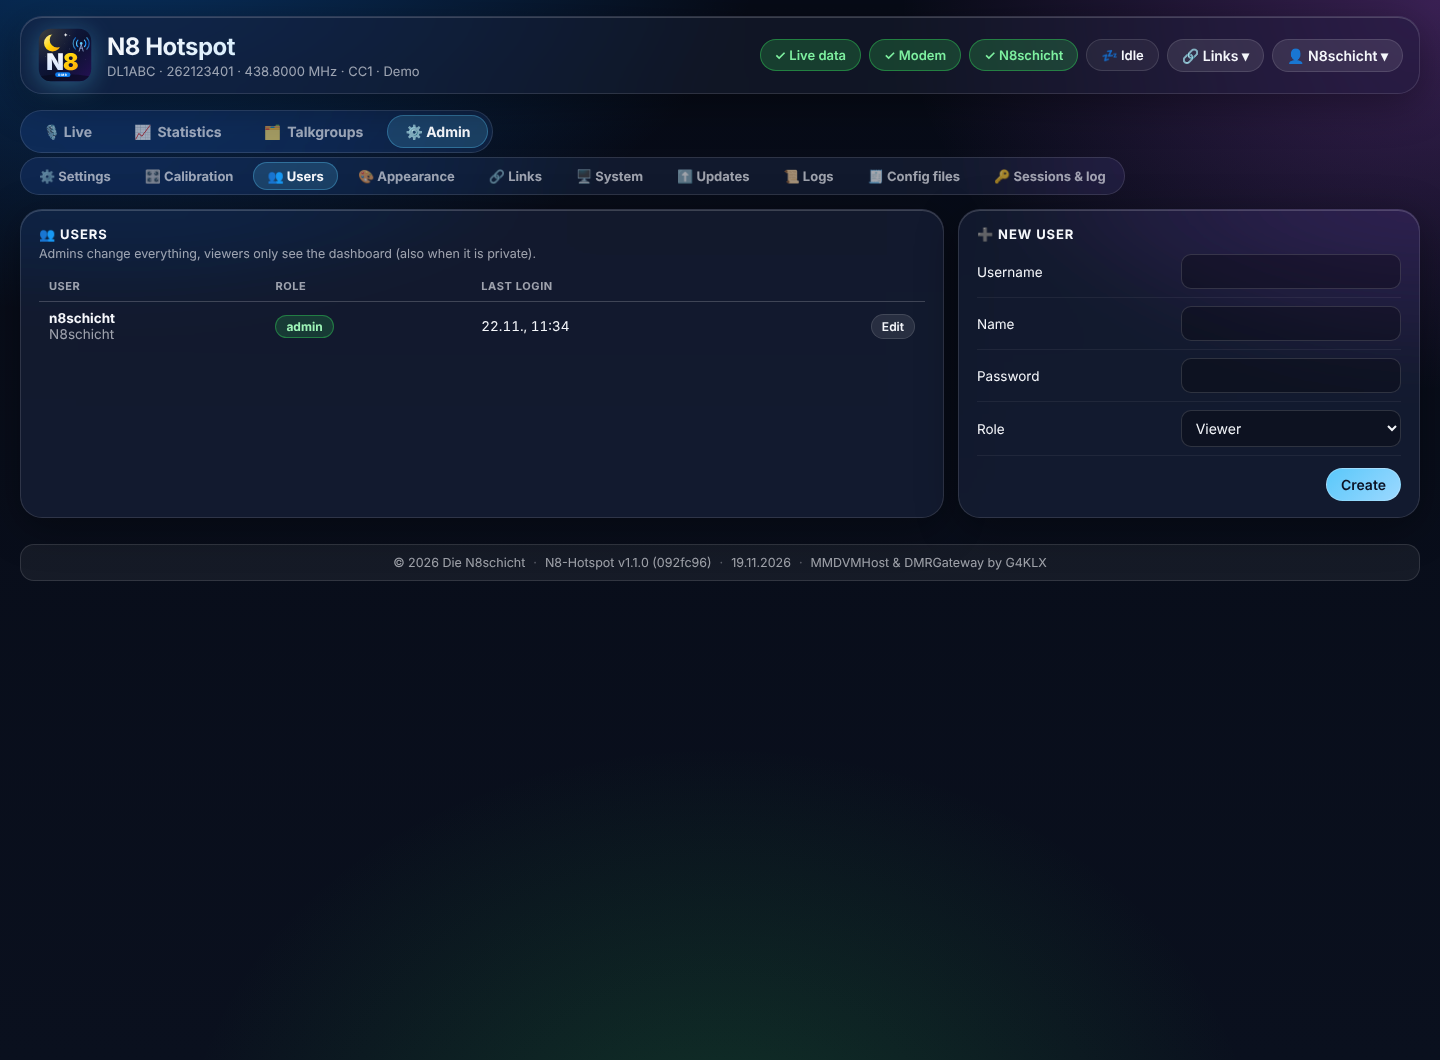
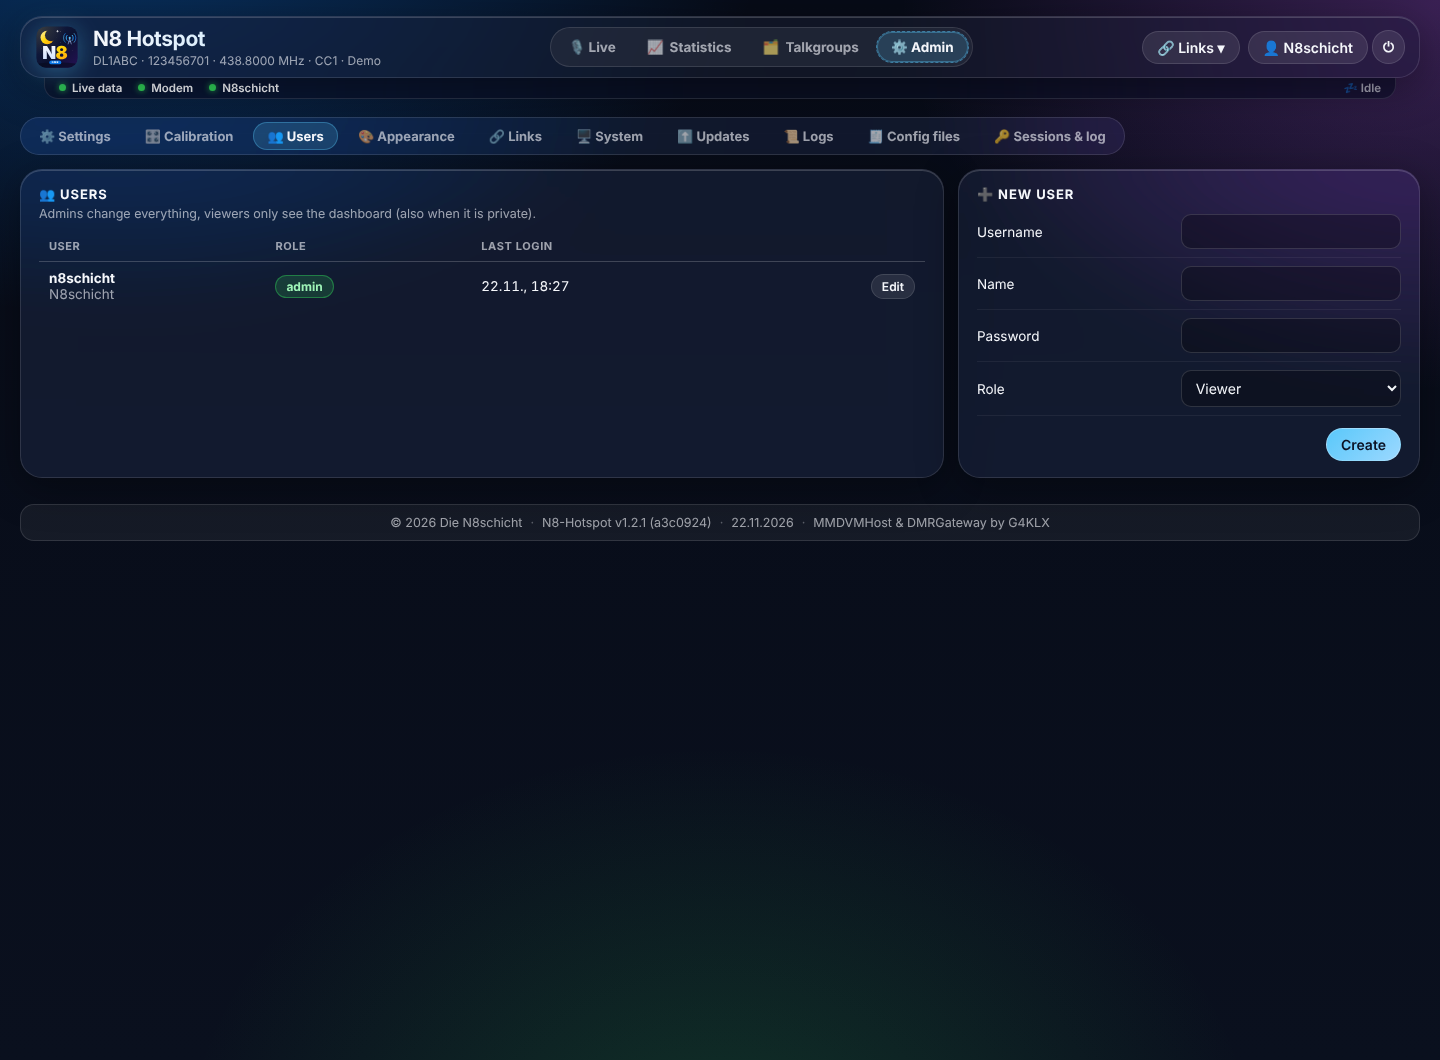
v1.3.0: one menu in the header + slim status strip
- Tabs (Live, Statistics, Talkgroups) moved into the sticky header
- ⚙ Admin becomes a menu item after login (no user drop-down)
- Login on the far right; logged in: name (My account) + ⏻ log out
- New 22 px status strip under the menu: Live data, Modem, DMR server, mode
- Shared static/n8-header.css (same as frn_adn)
- Docs: new section "Kopfzeile und Statusleiste", all header screenshots renewed

Claude-Session: https://claude.ai/code/session_01J5RG2onGtWffnXNHvutXxa

diff --git a/static/app.js b/static/app.js
@@ -84,21 +84,10 @@ function renderHeader() {
 function renderUser() {
     const el = $('userArea');
     if (!S.me) { el.innerHTML = '<button class="btn primary" onclick="openLogin()">🔐 Login</button>'; return; }
-    el.innerHTML = `<button class="btn" onclick="userMenu(event)" title="${esc(S.me.display_name || S.me.username)}">👤 <span class="u-name">${esc(S.me.display_name || S.me.username)}</span> ▾</button>`;
-}
-function userMenu(ev) {
-    ev.stopPropagation();
-    closeModal();
-    const r = ev.target.getBoundingClientRect();
-    const m = document.createElement('div');
-    m.className = 'glass'; m.id = 'umenu';
-    m.style.cssText = `position:fixed;top:${r.bottom + 8}px;right:${Math.max(8, innerWidth - r.right)}px;z-index:300;border-radius:16px;padding:6px;min-width:200px;background:var(--surface-2, rgba(22,28,48,.95))`;
-    m.innerHTML = `<div style="padding:8px 12px" class="dim">${esc(S.me.username)} · ${esc(S.me.role)}</div>
-        ${isAdmin() ? '<button class="btn" style="width:100%;border-radius:10px;margin:2px 0" onclick="showTab(\'admin\')">⚙ Admin</button>' : ''}
-        <button class="btn" style="width:100%;border-radius:10px;margin:2px 0" onclick="openAccount()">🔑 My account</button>
-        <button class="btn" style="width:100%;border-radius:10px;margin:2px 0" onclick="logout()">🚪 Log out</button>`;
-    document.body.appendChild(m);
-    setTimeout(() => document.addEventListener('click', () => m.remove(), { once: true }), 0);
+    // logged in: name (click = my account) and log out – no drop-down; ⚙ Admin is a menu item
+    const name = esc(S.me.display_name || S.me.username);
+    el.innerHTML = `<span class="n8-user"><button class="btn" onclick="openAccount()" title="${name} · ${esc(S.me.role)} – my account">👤 <span class="u-name">${name}</span></button>
+        <button class="btn n8-logout" onclick="logout()" title="Log out" aria-label="Log out">⏻</button></span>`;
 }
 
 // ---------------------------------------------------------------- modals
@@ -238,22 +227,23 @@ function onEvent(ev) {
 // ---------------------------------------------------------------- live
 function renderChips() {
     const L = S.live || {};
-    const set = (id, cls, text) => { const e = $(id); e.className = 'chip ' + cls + (id === 'chipLive' || id === 'chipModem' ? ' st' : ''); e.textContent = text; e.title = text; };
-    set('chipLive', S.wsOk ? 'ok' : 'bad', S.wsOk ? '✓ Live data' : '✕ Live data');
+    // status strip under the menu: a coloured dot says it, the text stays short
+    const set = (id, cls, text) => { const e = $(id); e.className = 'n8-ss ' + cls; e.textContent = text; e.title = text; };
+    set('chipLive', S.wsOk ? 'ok' : 'bad', S.wsOk ? 'Live data' : 'Live data offline');
     const svc = L.services || {};
-    if (svc.mmdvmhost && svc.mmdvmhost !== 'active') set('chipModem', 'bad', '✕ MMDVMHost stopped');
-    else if (L.modem && L.modem.open === true) set('chipModem', 'ok', '✓ Modem');
-    else if (L.modem && L.modem.open === false) set('chipModem', 'bad', '✕ Modem');
-    else set('chipModem', 'warn', '… Modem');
+    if (svc.mmdvmhost && svc.mmdvmhost !== 'active') set('chipModem', 'bad', 'MMDVMHost stopped');
+    else if (L.modem && L.modem.open === true) set('chipModem', 'ok', 'Modem');
+    else if (L.modem && L.modem.open === false) set('chipModem', 'bad', 'Modem not found');
+    else set('chipModem', 'warn', 'Modem');
     const ln = L.link || {};
     const net = S.info && S.info.network;
-    if (!net) set('chipNet', '', '🛰 No network');
-    else if (svc.dmrgateway && svc.dmrgateway !== 'active') set('chipNet', 'bad', `✕ ${net} (gateway stopped)`);
-    else if (ln.state === 'connected') set('chipNet', 'ok', `✓ ${net}`);
-    else if (ln.state === 'failed') set('chipNet', 'bad', `✕ ${net}${ln.reason === 'auth' ? ': password wrong' : ln.reason ? ': ' + ln.reason : ''}`);
-    else set('chipNet', 'warn', `… ${net}`);
+    if (!net) set('chipNet', 'idle', 'No network');
+    else if (svc.dmrgateway && svc.dmrgateway !== 'active') set('chipNet', 'bad', `${net} (gateway stopped)`);
+    else if (ln.state === 'connected') set('chipNet', 'ok', net);
+    else if (ln.state === 'failed') set('chipNet', 'bad', `${net}${ln.reason === 'auth' ? ': password wrong' : ln.reason ? ': ' + ln.reason : ''}`);
+    else set('chipNet', 'warn', `${net} connecting`);
     const mode = svc.mmdvmhost && svc.mmdvmhost !== 'active' ? 'Stopped' : (L.mode || 'Idle');
-    set('chipMode', mode === 'Idle' ? '' : ['Lockout', 'Error', 'Stopped'].includes(mode) ? 'bad' : 'info', mode === 'Idle' ? '💤 Idle' : mode === 'Stopped' ? '⏸ Stopped' : `📡 ${mode}`);
+    set('chipMode', mode === 'Idle' ? 'plain' : ['Lockout', 'Error', 'Stopped'].includes(mode) ? 'bad' : 'info', mode === 'Idle' ? '💤 Idle' : mode === 'Stopped' ? '⏸ Stopped' : `📡 ${mode}`);
 }
 function renderInfo() {
     const i = S.info; if (!i) return;

diff --git a/static/n8-header.css b/static/n8-header.css
@@ -1,0 +1,50 @@
+/*
+ * N8 Header 2 – shared by the N8schicht dashboards (HBlink4-FreeRadioID, ADN FRN Server, N8-HotSpot).
+ * The same file is in every repository; change it in one, copy it to the others.
+ *
+ *   <div class="n8-topbar">
+ *     <header> logo/title | menu (… ⚙ Admin after login) | links + 🔐 Login / user + ⏻, far right </header>
+ *     <div class="n8-strip"> <span class="n8-ss ok">Live data</span> … <span class="n8-sp"></span> … </div>
+ *   </div>
+ *
+ * One menu in the header, the status of the services in a slim strip under it
+ * (lower than the menu, attached to the header). Status items: .n8-ss + ok | warn | bad | info | idle.
+ */
+.n8-topbar { position: sticky; top: 10px; z-index: 50; margin-bottom: 18px; }
+.n8-topbar > header { position: relative !important; top: auto !important; margin-bottom: 0 !important; z-index: 2; }
+
+.n8-strip { display: flex; align-items: center; gap: 4px 16px; margin: -1px 24px 0; padding: 0 14px; height: 22px;
+            font-size: 11.5px; font-weight: 600; line-height: 22px; color: var(--text-dim, rgba(235, 240, 250, .62));
+            border-radius: 0 0 14px 14px; position: relative; z-index: 1; white-space: nowrap;
+            background: rgba(12, 17, 34, 0.72); border: 1px solid var(--glass-border, rgba(255, 255, 255, .12)); border-top: 0;
+            -webkit-backdrop-filter: var(--glass-blur, blur(22px)); backdrop-filter: var(--glass-blur, blur(22px));
+            overflow-x: auto; scrollbar-width: none; }
+.n8-strip::-webkit-scrollbar { display: none; }
+.n8-ss { display: inline-flex; align-items: center; gap: 0; border: 0; background: none; padding: 0; color: inherit; font: inherit; }
+.n8-ss::before { content: ''; flex: none; width: 7px; height: 7px; margin-right: 6px; border-radius: 50%;
+                 background: #8e8e93; box-shadow: 0 0 5px rgba(142, 142, 147, .6); }
+.n8-ss.ok::before { background: #30d158; box-shadow: 0 0 6px rgba(48, 209, 88, .8); }
+.n8-ss.warn::before { background: #ffd60a; box-shadow: 0 0 6px rgba(255, 214, 10, .7); }
+.n8-ss.bad::before { background: #ff453a; box-shadow: 0 0 6px rgba(255, 69, 58, .8); animation: n8-pulse 2s ease-in-out infinite; }
+.n8-ss.info::before { background: #0a84ff; box-shadow: 0 0 6px rgba(10, 132, 255, .8); }
+.n8-ss.plain::before { display: none; }
+.n8-ss.ok, .n8-ss.bad { color: var(--text, #f5f7fb); }
+.n8-ss b { color: var(--accent, #5ac8fa); }
+button.n8-ss { cursor: pointer; }
+button.n8-ss:hover { color: var(--text, #f5f7fb); }
+.n8-sp { flex: 1 1 auto; }
+@keyframes n8-pulse { 0%, 100% { opacity: 1; } 50% { opacity: .45; } }
+
+/* logged in: who am I (click = my account) and log out – no drop-down */
+.n8-user { display: inline-flex; align-items: center; gap: 4px; }
+.n8-user .n8-logout { padding-left: 10px !important; padding-right: 10px !important; }
+.n8-user .n8-logout:hover { background: rgba(255, 69, 58, .22) !important; border-color: rgba(255, 69, 58, .5) !important; }
+.n8-menu-admin { border: 1px dashed rgba(var(--accent-rgb, 90, 200, 250), .45) !important; }
+
+html[data-theme-mode=light] .n8-strip { background: rgba(255, 255, 255, .78); }
+@media (max-width: 1280px) { .n8-user .u-name { display: none; } }
+@media (max-width: 600px) {
+    .n8-topbar { top: 6px; margin-bottom: 10px; }
+    .n8-strip { margin: -1px 12px 0; padding: 0 10px; gap: 4px 12px; height: 20px; line-height: 20px; font-size: 10.5px; }
+    .n8-strip .n8-long { display: none; }
+}

diff --git a/static/index.html b/static/index.html
@@ -12,9 +12,11 @@
     <link rel="stylesheet" href="/static/n8-theme.css?v=1">
     <link rel="stylesheet" href="/static/n8-light.css?v=1">
     <script src="/static/n8-theme.js?v=1"></script>
+    <link rel="stylesheet" href="/static/n8-header.css?v=1">
 </head>
 <body>
 <div class="container">
+    <div class="n8-topbar">
     <header>
         <div class="brand">
             <img src="/static/n8schicht-icon.svg" alt="DMR Die N8schicht">
@@ -23,15 +25,26 @@
                 <div class="sub" id="subtitle">&nbsp;</div>
             </div>
         </div>
+        <nav class="tabs" id="mainTabs">
+            <button data-tab="live" class="active">🎙 Live</button>
+            <button data-tab="stats">📈 <span class="t-long">Statistics</span><span class="t-short">Stats</span></button>
+            <button data-tab="tgs">🗂 <span class="t-long">Talkgroups</span><span class="t-short">TGs</span></button>
+            <button data-tab="admin" id="tabAdminBtn" class="hidden n8-menu-admin">⚙ Admin</button>
+        </nav>
         <div class="chips">
-            <span class="chip" id="chipLive">Live data</span>
-            <span class="chip" id="chipModem">Modem</span>
-            <span class="chip" id="chipNet">DMR server</span>
-            <span class="chip" id="chipMode">Idle</span>
             <div class="links-menu" id="linksMenu" hidden><button type="button" class="btn links-btn" onclick="toggleLinks(event)" title="Links"><span class="links-label">🔗 Links</span> ▾</button><div class="links-pop"></div></div>
             <span id="userArea"></span>
         </div>
     </header>
+    <!-- status of the services: one slim line under the menu -->
+    <div class="n8-strip" id="statusStrip" role="status">
+        <span class="n8-ss" id="chipLive">Live data</span>
+        <span class="n8-ss" id="chipModem">Modem</span>
+        <span class="n8-ss" id="chipNet">DMR server</span>
+        <span class="n8-sp"></span>
+        <span class="n8-ss" id="chipMode">Idle</span>
+    </div>
+    </div><!-- /n8-topbar -->
 
     <div class="banner warn hidden" id="defaultBanner">
         <span>⚠ <b>The factory login n8schicht / n8schicht is still active.</b> Anyone on your network could change your hotspot. Please set your own password.</span>
@@ -46,12 +59,6 @@
         <button class="btn primary" onclick="applyRestart(this)">Restart now</button>
     </div>
 
-    <nav class="tabs" id="mainTabs">
-        <button data-tab="live" class="active">🎙 Live</button>
-        <button data-tab="stats">📈 <span class="t-long">Statistics</span><span class="t-short">Stats</span></button>
-        <button data-tab="tgs">🗂 <span class="t-long">Talkgroups</span><span class="t-short">TGs</span></button>
-        <button data-tab="admin" id="tabAdminBtn" class="hidden">⚙ Admin</button>
-    </nav>
 
     <!-- ================= LIVE ================= -->
     <section id="tab-live">

diff --git a/static/n8-extra.css b/static/n8-extra.css
@@ -77,3 +77,29 @@ a.btn { color: var(--text); text-decoration: none; display: inline-flex; align-i
 .perm-cmd { display: flex; gap: 8px; align-items: center; margin-top: 6px; padding: 8px 10px; border-radius: 10px;
             background: rgba(0, 0, 0, .25); border: 1px solid var(--glass-border); }
 .perm-cmd code { flex: 1; font-family: var(--mono); font-size: 12px; word-break: break-all; }
+
+/* ---------- N8 header 2: one menu in the header (brand | tabs | links + login), status strip under it ---------- */
+header { flex-wrap: nowrap; justify-content: flex-start; gap: 14px; padding: 8px 14px; }
+header .brand { flex: 0 1 auto; min-width: 0; }
+header .brand > div { min-width: 0; }
+header .brand img { height: 44px; width: 44px; border-radius: 11px; }
+header .brand h1 { white-space: nowrap; font-size: 21px; }
+header .brand .sub { white-space: nowrap; overflow: hidden; text-overflow: ellipsis; font-size: 12px; }
+header .tabs { margin: 0 auto; flex: 0 0 auto; padding: 3px; gap: 3px; background: rgba(255, 255, 255, 0.04); }
+header .tabs button { padding: 7px 14px; font-size: 13.5px; }
+header .chips { flex: 0 0 auto; justify-content: flex-end; flex-wrap: nowrap; width: auto; }
+@media (max-width: 1180px) {
+    header { flex-wrap: wrap; }
+    header .brand { flex: 1 1 auto; }
+    header .tabs { order: 3; flex: 1 1 100%; width: 100%; margin: 2px 0 0; }
+    header .tabs button { flex: 1 1 0; justify-content: center; }
+}
+@media (max-width: 600px) {
+    header .brand img { height: 34px; width: 34px; }
+    header .brand h1 { font-size: 17px; }
+    header .brand .sub { display: none; }
+    header .chips { width: auto; }
+    header .tabs button { padding: 6px 4px; font-size: 12px; }
+    header .tabs .t-long { display: none; }
+    header .tabs .t-short { display: inline; }
+}

diff --git a/docs/de/bedienung.md b/docs/de/bedienung.md
@@ -12,21 +12,37 @@ Dieser Teil ist der **Sichtbereich**: ohne Login sichtbar, solange *Public view*
   <img src="../images/live-mobile.png" alt="Live am Smartphone" width="22%">
 </p>
 
-## Kopfzeile
+## Kopfzeile und Statusleiste
+
+Oben gibt es **ein** Menü: links Logo, Titel und Untertitel, in der Mitte die Reiter, rechts Links und Anmeldung.
+Direkt darunter hängt eine schmale **Statusleiste**, die nur zeigt, wie es den Diensten geht – sie ist bewusst
+niedriger als das Menü. Beides bleibt beim Scrollen oben stehen.
+
+<p align="center"><img src="../images/header-desktop.png" alt="Kopfzeile mit Menü und Statusleiste" width="95%"></p>
+
+**Menü**
+
+| Eintrag | Bedeutung |
+|---|---|
+| Titel, Untertitel | Titel aus dem Adminbereich; darunter Rufzeichen, Hotspot-ID, Frequenz, Color Code |
+| **🎙 Live · 📈 Statistics · 🗂 Talkgroups** | die Ansichten |
+| **⚙ Admin** | erscheint nach dem Login für Admins als eigener Menüpunkt (gestrichelt umrandet) |
+| **🔗 Links ▾** | Link-Menü mit Site-Icons der verlinkten Seiten (im Adminbereich unter *Links* einstellbar) |
+| **🔐 Login** | ganz rechts; nach dem Anmelden steht dort dein **👤 Name** (Klick = *My account*, Passwort ändern) und daneben **⏻** zum Abmelden – ohne Aufklappmenü |
+
+**Statusleiste** – ein farbiger Punkt sagt den Zustand: grün = ok, gelb = wartet, rot = Fehler, blau = aktiv, grau = aus.
 
 | Anzeige | Bedeutung |
 |---|---|
-| Titel, Untertitel | Titel aus dem Adminbereich; darunter Rufzeichen, Hotspot-ID, Frequenz, Color Code |
-| **✓ Live data** | Der Browser bekommt Live-Daten. Rot bedeutet, die Verbindung zum Hotspot ist weg; sie wird automatisch wieder aufgebaut. |
-| **✓ Modem** | MMDVMHost läuft und hat das Modem geöffnet. Rot: *Modem* (nicht gefunden) oder *MMDVMHost stopped*. |
-| **✓ N8schicht** | DMRGateway ist beim DMR-Server angemeldet. Rot mit Grund, z. B. *password wrong*, *timeout* oder *gateway stopped*. |
-| **💤 Idle / 📡 DMR** | aktueller Modus von MMDVMHost |
-| **🔗 Links ▾** | Link-Menü mit Site-Icons der verlinkten Seiten (im Adminbereich unter *Links* einstellbar) |
-| **👤 Name ▾** | eigenes Konto, Adminbereich, Abmelden (ohne Login: **🔐 Login**) |
+| **Live data** | Der Browser bekommt Live-Daten. Rot (*Live data offline*): Verbindung zum Hotspot weg; sie wird automatisch wieder aufgebaut. |
+| **Modem** | MMDVMHost läuft und hat das Modem geöffnet. Rot: *Modem not found* oder *MMDVMHost stopped*. |
+| **N8schicht** (Name des DMR-Servers) | DMRGateway ist beim DMR-Server angemeldet. Gelb: *connecting*; rot mit Grund, z. B. *password wrong*, *timeout* oder *gateway stopped*. |
+| **💤 Idle / 📡 DMR** (rechts) | aktueller Modus von MMDVMHost |
 
-Am **Smartphone** ist die Kopfzeile kompakter: *Live data* und *Modem* sind zwei Statuspunkte (grün = ok, gelb = wartet, rot = Fehler;
-antippen bzw. lange drücken zeigt den Text), Links und Benutzer sind nur Symbole. Die Fußzeile zeigt © Die N8schicht,
-die installierte Version mit Commit und deren Datum.
+Am **Smartphone** rutschen die Reiter in eine zweite Zeile (kurze Namen *Stats*, *TGs*), Links und Benutzer sind nur Symbole.
+Die Statusleiste bleibt eine Zeile. Die Fußzeile zeigt © Die N8schicht, die installierte Version mit Commit und deren Datum.
+
+<p align="center"><img src="../images/header-mobile.png" alt="Kopfzeile am Smartphone" width="40%"></p>
 
 <p align="center"><img src="../images/links-menu.png" alt="Link-Menü" width="55%"></p>
 

diff --git a/CHANGELOG.md b/CHANGELOG.md
@@ -4,6 +4,39 @@ Alle Versionen von **N8-Hotspot** (DMR Die N8schicht), die neueste oben.
 Die Nummern folgen [Semantic Versioning](https://semver.org/lang/de/): `MAJOR.MINOR.PATCH`.
 Wie Versionen und Updates funktionieren, steht in [docs/de/updates.md](docs/de/updates.md).
 
+## [1.3.0] – 2026-11-22
+
+Neue Kopfzeile: statt zwei Leisten (Status-Chips oben, Reiter darunter) gibt es jetzt **ein Menü** und darunter eine schmale
+**Statusleiste** – im gleichen Aufbau wie bei HBlink4-FreeRadioID und frn_adn.
+
+### 🧭 Ein Menü in der Kopfzeile
+- Die Reiter **🎙 Live · 📈 Statistics · 🗂 Talkgroups** sitzen jetzt in der Kopfzeile zwischen Logo/Titel und den Knöpfen rechts.
+  Die Kopfzeile bleibt beim Scrollen stehen, die Ansicht wechselst du also von überall.
+- **⚙ Admin** ist nach dem Login (Rolle Admin) ein eigener Menüpunkt, gestrichelt umrandet, statt im Benutzermenü versteckt.
+- **🔐 Login** steht ganz rechts. Angemeldet zeigt der Platz deinen **👤 Namen** (Klick öffnet *My account*) und daneben **⏻ Abmelden**.
+  Das Aufklappmenü unter dem Namen entfällt.
+- Logo und Titel sind etwas kompakter (44 px), der Untertitel wird bei Platzmangel gekürzt statt umzubrechen.
+- Unter 1180 px rutschen die Reiter in eine zweite Zeile über die volle Breite; am Smartphone mit kurzen Namen (*Stats*, *TGs*),
+  ohne Untertitel, Links und Benutzer als Symbole.
+
+### 🟢 Statusleiste unter dem Menü
+- Neue, nur 22 px hohe Leiste direkt unter der Kopfzeile, bewusst kleiner als das Menü: **Live data**, **Modem**, **DMR-Server**
+  (Name des Netzes) und rechts der **Modus** (💤 Idle / 📡 DMR / ⏸ Stopped).
+- Der Zustand steht als farbiger Punkt davor (grün ok, gelb wartet, rot Fehler, blau aktiv, grau aus); die Texte sind kurz und ohne ✓/✕,
+  z. B. *Modem not found*, *N8schicht connecting*, *N8schicht: password wrong*, *Live data offline*.
+- Am Smartphone bleibt sie einstellig; die bisherigen Statuspunkte in der Kopfzeile entfallen.
+
+### 🛠 Technik
+- Neue gemeinsame Datei `static/n8-header.css` (identisch mit frn_adn): `.n8-topbar`, `.n8-strip`, `.n8-ss` mit den Punkt-Klassen
+  `ok / warn / bad / info / idle / plain`, `.n8-user`, `.n8-logout`, `.n8-menu-admin`, helles Theme und Smartphone-Regeln.
+- `userMenu()` entfällt; `renderUser()` baut Name + ⏻, `renderChips()` schreibt in die Statusleiste. Die Element-IDs
+  (`chipLive`, `chipModem`, `chipNet`, `chipMode`, `mainTabs`, `tabAdminBtn`) sind gleich geblieben.
+
+### 📚 Doku
+- *Live & Statistik*: neuer Abschnitt **Kopfzeile und Statusleiste** mit den Screenshots `header-desktop.png` / `header-mobile.png`.
+- Alle Screenshots mit Kopfzeile neu: Live, Statistik, Talkgroups (Desktop und Smartphone) und alle Admin-Seiten.
+- Installation und Adminbereich verweisen auf Statusleiste bzw. den Namen oben rechts statt auf das alte Menü.
+
 ## [1.2.1] – 2026-11-22
 
 - Website-Site-Icons werden täglich um Mitternacht neu geladen; unter **Admin → Links** gibt es **Refresh site icons now** für einen sofortigen Neuabruf.

diff --git a/readme.md b/readme.md
@@ -37,6 +37,7 @@
 | ⚙ **Adminbereich** | Station, Modem, Frequenzen, DMR-Server, Zeitschlitze, Expertenzeilen. Dazu Benutzer, Dienste, Logs, System-Infos, Neustart. |
 | ⬆ **Updates im Browser** | stündliche Prüfung auf GitHub, Hinweis für Admins, **Update now** mit Passwortabfrage, danach Neustart von MMDVMHost, DMRGateway und Weboberfläche; auf Wunsch automatisch nachts |
 | 🎨 **Eigene Farben** | N8 Theme wie im HBlink4-Dashboard: 7 Profile (auch hell), jede Farbe frei wählbar, Export/Import zwischen allen N8-Dashboards |
+| 🧭 **Ein Menü + Statusleiste** | Kopfzeile mit Logo, Reitern, Links und Login ganz rechts (ohne Aufklappmenü, **⚙ Admin** nach dem Login als Menüpunkt); darunter eine schmale Statusleiste für Live-Daten, Modem, DMR-Server und Modus |
 | 🔗 **Link-Menü** | eigene Links oben rechts, mit den Favicons der verlinkten Seiten (im Hotspot zwischengespeichert) |
 | 👁 **Sichtbereich** | Die Live-Ansicht ist öffentlich (abschaltbar). Benutzer der Rolle *Viewer* sehen alles, ändern aber nichts. |
 | 🔐 **Standard-Login** | `n8schicht` / `n8schicht`. Bis zur Änderung im Adminbereich erscheint eine deutliche Warnung. |

diff --git a/docs/de/installation.md b/docs/de/installation.md
@@ -135,7 +135,7 @@ Hast du das Image mit Hotspot-Einstellungen gebaut oder `setup.sh` benutzt, sind
    - **📡 Modem**: Board auswählen, das trägt Port, Geschwindigkeit und Simplex/Duplex ein. Dazu die Frequenz.
    - **🛰 DMR network**: Server (Vorgabe **DMR Die N8schicht**) und **Passwort**. Bei der N8schicht ist das dein persönliches FreeRadioID-Passwort; mit dem allgemeinen Gast-Passwort darfst du nur auf die Gast-Talkgroups senden.
 4. Bei jedem Abschnitt **Save**, dann oben **Restart now**.
-5. Oben rechts müssen **✓ Modem** und **✓ N8schicht** grün sein.
+5. In der Statusleiste unter dem Menü müssen **Modem** und **N8schicht** einen grünen Punkt haben.
 6. Einmal die [Kalibrierung](kalibrierung.md) machen.
 
 ## Aktualisieren

diff --git a/docs/de/adminbereich.md b/docs/de/adminbereich.md
@@ -18,7 +18,7 @@ Ab Werk gibt es einen Admin: **Benutzer `n8schicht`, Passwort `n8schicht`**. Sol
 - **Im Adminbereich** steht oben eine gelbe Warnung mit **Change now**.
 - **In der Benutzerliste** steht beim Benutzer *factory password*.
 
-Nach der Änderung werden alle Sitzungen beendet und der Werks-Login funktioniert nicht mehr. *My account* erreichst du jederzeit über das Menü oben rechts.
+Nach der Änderung werden alle Sitzungen beendet und der Werks-Login funktioniert nicht mehr. *My account* erreichst du jederzeit über deinen Namen oben rechts.
 
 Nach 5 falschen Passwörtern ist der Login für 15 Minuten gesperrt. Mit *Stay logged in* bleibst du 30 Tage angemeldet, sonst so lange wie unter *Session length* eingestellt.
 
